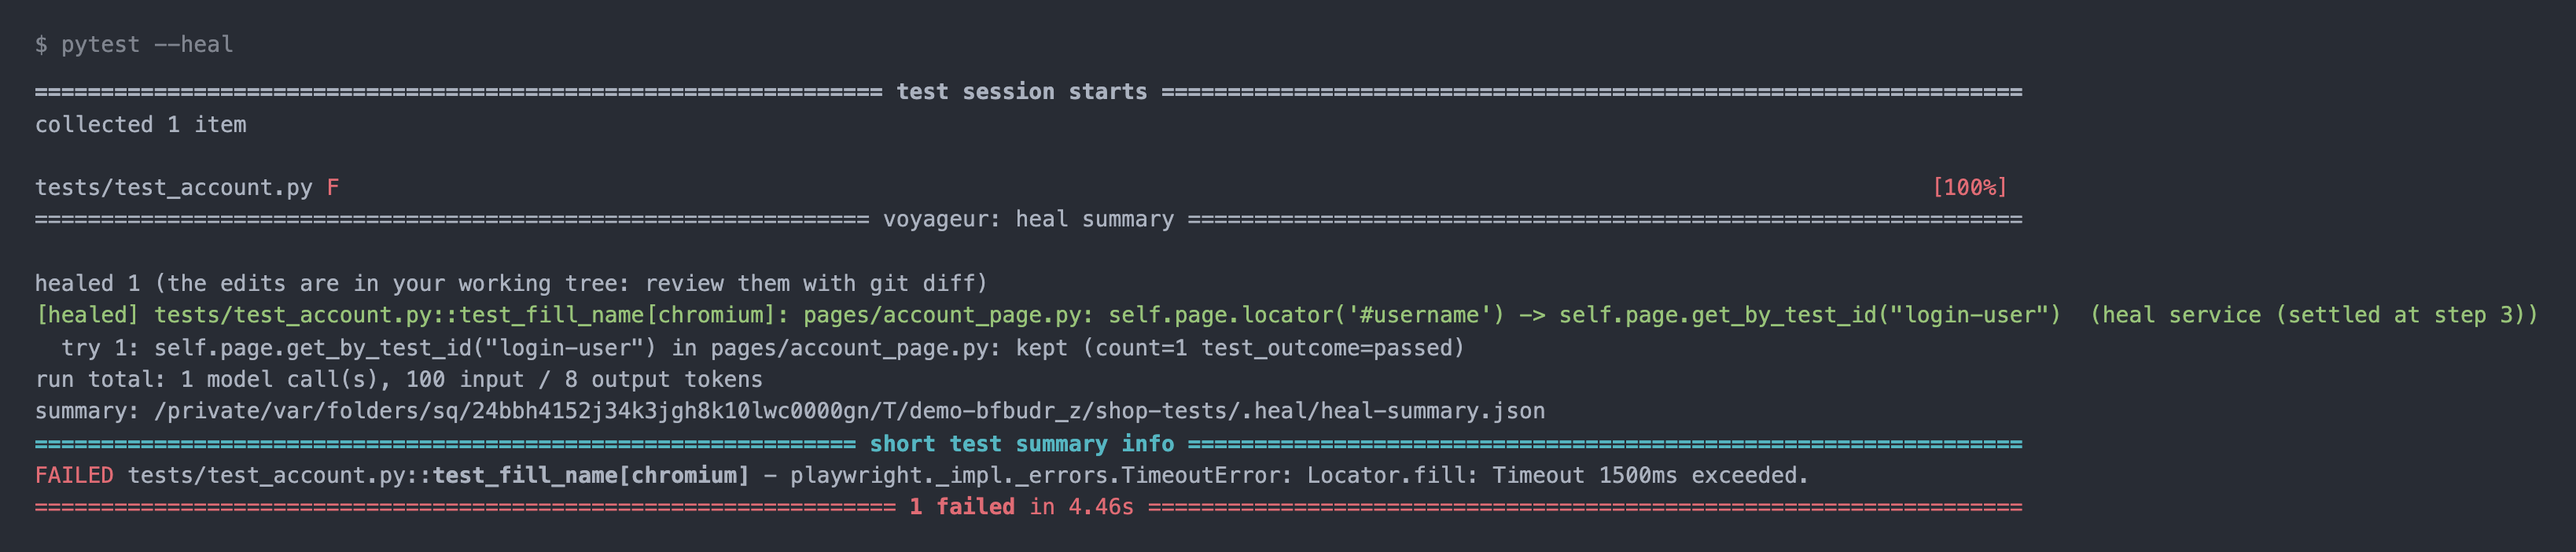
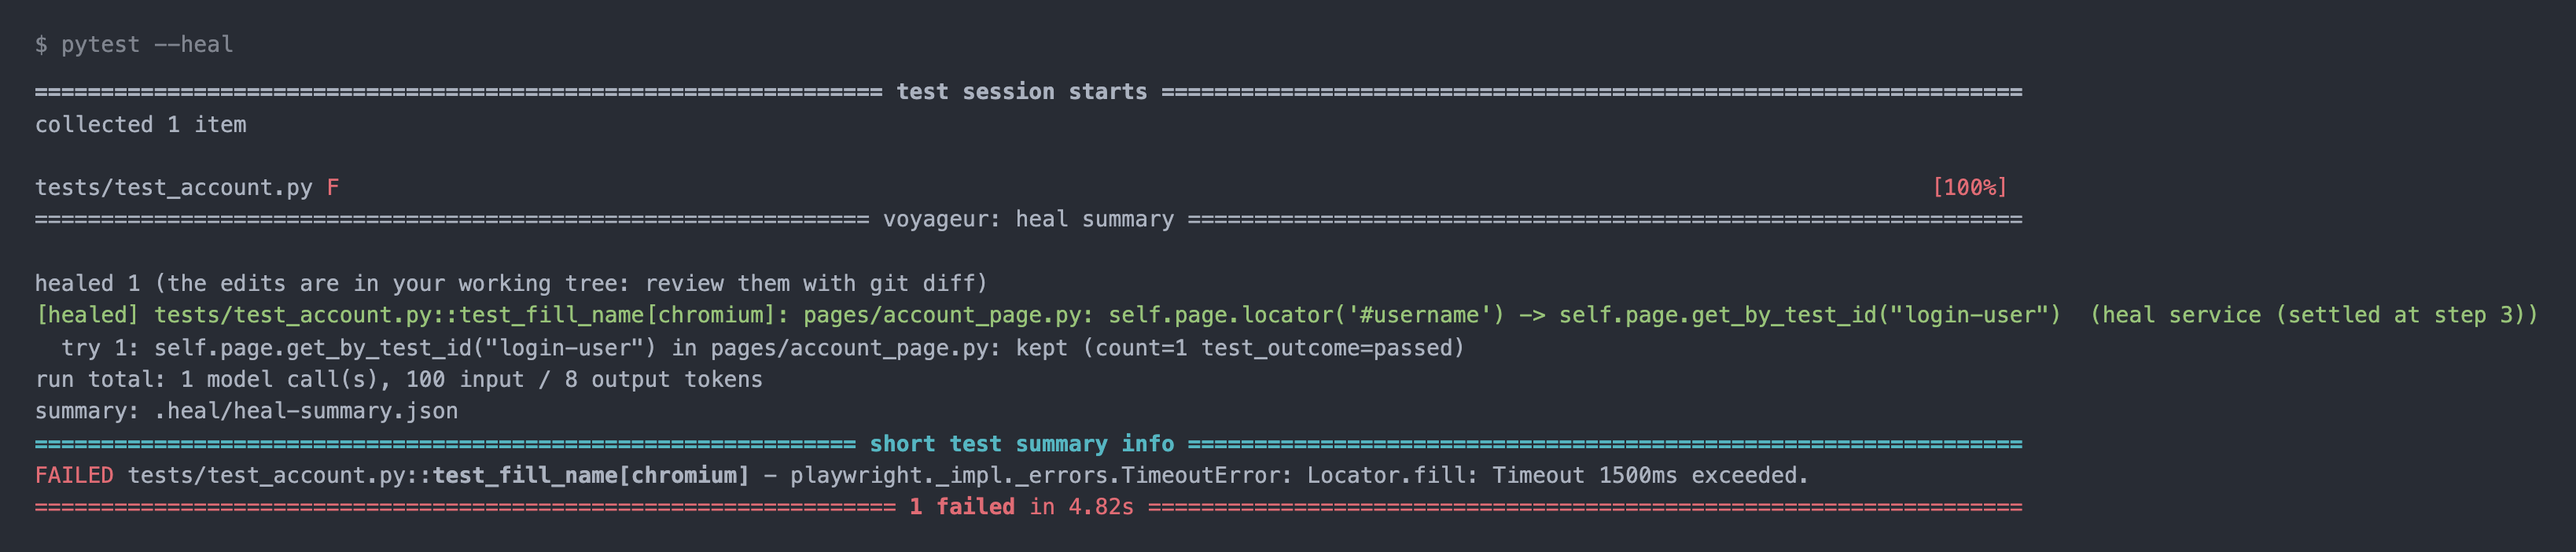
Print the summary path relative to the rootdir when inside it; re-render the screenshot

Changed region(s): [[0.0623, 0.7179, 0.5916, 0.7778], [0.4048, 0.8974, 0.4359, 0.9274]]

diff --git a/src/pytest_voyageur/plugin.py b/src/pytest_voyageur/plugin.py
@@ -422,6 +422,14 @@ def write_summary(root: Path, decisions: List[Dict[str, Any]], started: str, run
         return None
 
 
+def display_path(path: Path, rootdir: Any) -> str:
+    """`path` relative to pytest's rootdir when it lies inside it (as pytest prints test paths), else absolute."""
+    try:
+        return str(Path(os.path.realpath(path)).relative_to(os.path.realpath(rootdir)))
+    except (ValueError, TypeError, OSError):
+        return str(path)
+
+
 def pytest_terminal_summary(terminalreporter: Any, exitstatus: int, config: Any) -> None:
     state = config.stash.get(STATE, None)
     if state is None or not state.enabled or hasattr(config, "workerinput") or not state.service_ready():
@@ -448,7 +456,7 @@ def pytest_terminal_summary(terminalreporter: Any, exitstatus: int, config: Any)
                                 f"{total['output_tokens']} output tokens")
     path = write_summary(state.root, decisions, time.strftime("%Y-%m-%dT%H:%M:%S%z"), state.run_id)
     if path is not None:
-        terminalreporter.write_line(f"summary: {path}")
+        terminalreporter.write_line(f"summary: {display_path(path, config.rootpath)}")
 
 
 # ---- the fixture ---------------------------------------------------------------------------------------------------------

diff --git a/tests/unit/test_plugin.py b/tests/unit/test_plugin.py
@@ -102,6 +102,15 @@ class TestSummaryFile:
         monkeypatch.setenv("HEAL_ARTIFACTS_DIR", str(tmp_path / "out"))
         assert plugin.write_summary(tmp_path, self.decisions(), "now", "r") == tmp_path / "out" / "heal-summary.json"
 
+    def test_the_printed_path_is_relative_inside_the_rootdir_and_absolute_outside(self, tmp_path):
+        root = tmp_path / "repo"
+        (root / ".heal").mkdir(parents=True)
+        inside = root / ".heal" / "heal-summary.json"
+        outside = tmp_path / "elsewhere" / "heal-summary.json"
+        assert plugin.display_path(inside, root) == str(Path(".heal") / "heal-summary.json")
+        assert plugin.display_path(outside, root) == str(outside)
+        assert plugin.display_path(tmp_path / "repo-other" / "x.json", root) == str(tmp_path / "repo-other" / "x.json")
+
     def test_decisions_are_read_from_the_reports_of_every_worker(self):
         rep = SimpleNamespace(user_properties=[("other", "x"), (plugin.PROPERTY, json.dumps({"test": "a", "outcome": "healed"}))])
         junk = SimpleNamespace(user_properties=[(plugin.PROPERTY, "{not json")])

diff --git a/CHANGELOG.md b/CHANGELOG.md
@@ -12,6 +12,7 @@ All notable changes are listed here. The format follows [Keep a Changelog](https
   product.
 
 ### Changed
+- The `summary:` line prints the path relative to pytest's rootdir when it is inside it, absolute only outside.
 - Pinned to Voyageur service commit `277f319` (probe re-synced, byte-identical to the service's copy).
 
 ## 0.1.0
